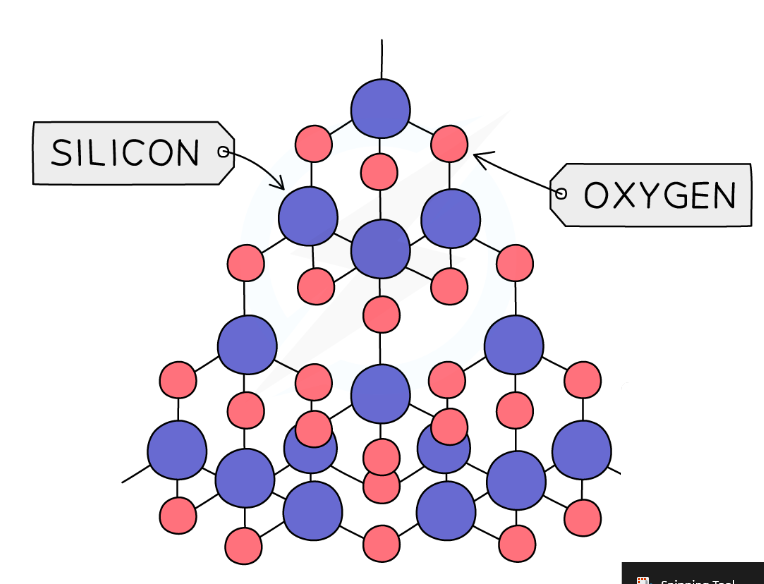
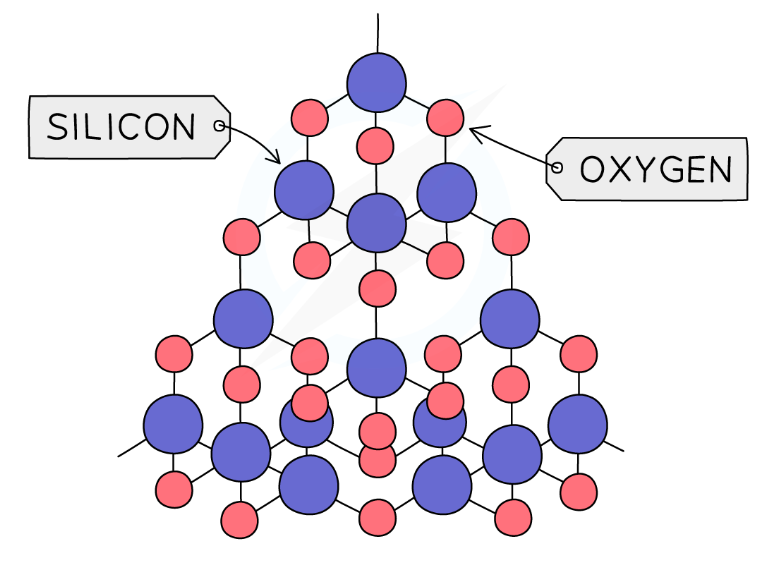
Remove alloys section; update SiO2 image

Changed region(s): [[0.0302, 0.0604, 0.9974, 0.9663], [0.816, 0.9361, 1.0, 1.0]]

diff --git a/revision-notes/types-of-substances.html b/revision-notes/types-of-substances.html
@@ -197,99 +197,9 @@
 
 
 <!-- ═══════════════════════════════════════════
-     2. ALLOYS
+     2. GIANT COVALENT STRUCTURES
      ═══════════════════════════════════════════ -->
-<h2>2. Alloys</h2>
-
-<div class="two-col">
-  <div class="fact-box">
-    <h3>What is an alloy?</h3>
-    <ul>
-      <li>A <strong>mixture</strong> of a metal with one or more other elements (usually other metals or carbon)</li>
-      <li>The added atoms have a <strong>different size</strong> to the host metal atoms</li>
-      <li>This <strong>distorts the regular arrangement</strong> of ions in the lattice</li>
-      <li>The layers can no longer slide over each other as easily</li>
-      <li>Therefore alloys are <strong>harder</strong> than the pure metals they are made from</li>
-    </ul>
-  </div>
-  <div class="fact-box">
-    <h3>Common alloys — exam examples</h3>
-    <table style="font-size:9.5pt;margin-top:4px;">
-      <thead><tr><th>Alloy</th><th>Main metal(s)</th><th>Use</th></tr></thead>
-      <tbody>
-        <tr><td><strong>Steel</strong></td><td>Iron + carbon</td><td>Construction, cars</td></tr>
-        <tr><td><strong>Stainless steel</strong></td><td>Iron + carbon + chromium</td><td>Cutlery, surgical tools</td></tr>
-        <tr><td><strong>Bronze</strong></td><td>Copper + tin</td><td>Statues, bearings</td></tr>
-        <tr><td><strong>Brass</strong></td><td>Copper + zinc</td><td>Musical instruments</td></tr>
-        <tr><td><strong>Duralumin</strong></td><td>Aluminium + copper</td><td>Aircraft frames</td></tr>
-      </tbody>
-    </table>
-  </div>
-</div>
-
-<!-- Pure metal vs alloy comparison SVG -->
-<div class="diag-centre">
-  <svg width="440" height="185" viewBox="0 0 440 185" xmlns="http://www.w3.org/2000/svg" style="border:1px solid #c5d3e8;border-radius:5px;background:#eef2fa;">
-    <!-- Panel labels -->
-    <text x="105" y="14" text-anchor="middle" font-size="10" font-family="Arial" font-weight="bold" fill="#1a3c6b">Pure Metal</text>
-    <text x="335" y="14" text-anchor="middle" font-size="10" font-family="Arial" font-weight="bold" fill="#1a3c6b">Alloy</text>
-    <!-- Divider -->
-    <line x1="220" y1="0" x2="220" y2="185" stroke="#c5d3e8" stroke-width="1" stroke-dasharray="4,3"/>
-
-    <!-- PURE METAL: 4×4 regular grid, all same size (r=16), centred at x=105 -->
-    <!-- Col x: 25, 65, 105, 145 | Row y: 32, 72, 112, 152 -->
-    <circle cx="25"  cy="32"  r="16" fill="#2563eb" stroke="#fff" stroke-width="1.5"/>
-    <circle cx="65"  cy="32"  r="16" fill="#2563eb" stroke="#fff" stroke-width="1.5"/>
-    <circle cx="105" cy="32"  r="16" fill="#2563eb" stroke="#fff" stroke-width="1.5"/>
-    <circle cx="145" cy="32"  r="16" fill="#2563eb" stroke="#fff" stroke-width="1.5"/>
-    <circle cx="25"  cy="72"  r="16" fill="#2563eb" stroke="#fff" stroke-width="1.5"/>
-    <circle cx="65"  cy="72"  r="16" fill="#2563eb" stroke="#fff" stroke-width="1.5"/>
-    <circle cx="105" cy="72"  r="16" fill="#2563eb" stroke="#fff" stroke-width="1.5"/>
-    <circle cx="145" cy="72"  r="16" fill="#2563eb" stroke="#fff" stroke-width="1.5"/>
-    <circle cx="25"  cy="112" r="16" fill="#2563eb" stroke="#fff" stroke-width="1.5"/>
-    <circle cx="65"  cy="112" r="16" fill="#2563eb" stroke="#fff" stroke-width="1.5"/>
-    <circle cx="105" cy="112" r="16" fill="#2563eb" stroke="#fff" stroke-width="1.5"/>
-    <circle cx="145" cy="112" r="16" fill="#2563eb" stroke="#fff" stroke-width="1.5"/>
-    <circle cx="25"  cy="152" r="16" fill="#2563eb" stroke="#fff" stroke-width="1.5"/>
-    <circle cx="65"  cy="152" r="16" fill="#2563eb" stroke="#fff" stroke-width="1.5"/>
-    <circle cx="105" cy="152" r="16" fill="#2563eb" stroke="#fff" stroke-width="1.5"/>
-    <circle cx="145" cy="152" r="16" fill="#2563eb" stroke="#fff" stroke-width="1.5"/>
-    <!-- Layer-slide arrow for pure metal -->
-    <text x="105" y="177" text-anchor="middle" font-size="8.5" font-family="Arial" fill="#2e7d32" font-style="italic">layers slide easily &#8594;</text>
-
-    <!-- ALLOY: same grid (offset +230) but 3 atoms are smaller (different element) -->
-    <!-- Col x: 255, 295, 335, 375 | Row y: 32, 72, 112, 152 -->
-    <circle cx="255" cy="32"  r="16" fill="#2563eb" stroke="#fff" stroke-width="1.5"/>
-    <circle cx="295" cy="32"  r="16" fill="#2563eb" stroke="#fff" stroke-width="1.5"/>
-    <circle cx="335" cy="32"  r="10" fill="#dc2626" stroke="#fff" stroke-width="1.5"/>
-    <circle cx="375" cy="32"  r="16" fill="#2563eb" stroke="#fff" stroke-width="1.5"/>
-    <circle cx="255" cy="72"  r="16" fill="#2563eb" stroke="#fff" stroke-width="1.5"/>
-    <circle cx="295" cy="72"  r="16" fill="#2563eb" stroke="#fff" stroke-width="1.5"/>
-    <circle cx="335" cy="72"  r="16" fill="#2563eb" stroke="#fff" stroke-width="1.5"/>
-    <circle cx="375" cy="72"  r="10" fill="#dc2626" stroke="#fff" stroke-width="1.5"/>
-    <circle cx="255" cy="112" r="16" fill="#2563eb" stroke="#fff" stroke-width="1.5"/>
-    <circle cx="295" cy="112" r="10" fill="#dc2626" stroke="#fff" stroke-width="1.5"/>
-    <circle cx="335" cy="112" r="16" fill="#2563eb" stroke="#fff" stroke-width="1.5"/>
-    <circle cx="375" cy="112" r="16" fill="#2563eb" stroke="#fff" stroke-width="1.5"/>
-    <circle cx="255" cy="152" r="16" fill="#2563eb" stroke="#fff" stroke-width="1.5"/>
-    <circle cx="295" cy="152" r="16" fill="#2563eb" stroke="#fff" stroke-width="1.5"/>
-    <circle cx="335" cy="152" r="16" fill="#2563eb" stroke="#fff" stroke-width="1.5"/>
-    <circle cx="375" cy="152" r="10" fill="#dc2626" stroke="#fff" stroke-width="1.5"/>
-    <!-- No-slide text -->
-    <text x="315" y="177" text-anchor="middle" font-size="8.5" font-family="Arial" fill="#b71c1c" font-style="italic">layers cannot slide &#10006;</text>
-  </svg>
-  <div class="d-label">Blue = host metal ions &nbsp;|&nbsp; Red (smaller) = different-sized atoms in alloy, distorting the regular lattice</div>
-</div>
-
-<div class="tip">
-  <strong>Exam shortcut:</strong> Every alloy hardness question wants the same three steps: (1) different-sized atoms, (2) distort the regular lattice, (3) layers cannot slide easily &rarr; harder. Learn this sequence.
-</div>
-
-
-<!-- ═══════════════════════════════════════════
-     3. GIANT COVALENT STRUCTURES
-     ═══════════════════════════════════════════ -->
-<h2>3. Giant Covalent Structures</h2>
+<h2>2. Giant Covalent Structures</h2>
 
 <div class="two-col">
   <div class="fact-box">
@@ -328,7 +238,7 @@
 <!-- ═══════════════════════════════════════════
      4. IONIC STRUCTURES
      ═══════════════════════════════════════════ -->
-<h2>4. Ionic Structures</h2>
+<h2>3. Ionic Structures</h2>
 
 <div class="two-col">
   <div class="fact-box">
@@ -363,7 +273,7 @@
 <!-- ═══════════════════════════════════════════
      5. ADDITION POLYMERISATION
      ═══════════════════════════════════════════ -->
-<h2>5. Addition Polymerisation</h2>
+<h2>4. Addition Polymerisation</h2>
 
 <div class="two-col">
   <div class="fact-box">
@@ -436,7 +346,7 @@
 <!-- ═══════════════════════════════════════════
      4. REPRESENTING STRUCTURES
      ═══════════════════════════════════════════ -->
-<h2>6. Representing Structures</h2>
+<h2>5. Representing Structures</h2>
 
 <p style="font-size:9.5pt;margin-bottom:7px;">Five ways to represent a molecule, each showing different information. The exam (Q9 style) asks you to describe what <strong>each one shows</strong> AND its <strong>limitation</strong>. Learn all five for methane (CH&#8324;).</p>
 
@@ -515,7 +425,7 @@
 <!-- ═══════════════════════════════════════════
      5. EXAM QUESTIONS WITH MODEL ANSWERS
      ═══════════════════════════════════════════ -->
-<h2>7. Exam Questions with Model Answers</h2>
+<h2>6. Exam Questions with Model Answers</h2>
 
 <!-- Q1: metallic bonding + high melting point (mirrors Q10 of the test) -->
 <div class="qa-block">
@@ -534,23 +444,7 @@
   </div>
 </div>
 
-<!-- Q2: alloy hardness -->
-<div class="qa-block">
-  <div class="question">
-    Pure iron is too soft for many uses. Explain, in terms of structure, why steel (an alloy of iron and carbon) is harder than pure iron.
-    <span class="marks">[3 marks]</span>
-  </div>
-  <div class="answer">
-    <div class="a-label">Model Answer</div>
-    <ul class="tick-list">
-      <li>The carbon atoms are a <strong>different size</strong> to the iron atoms (1)</li>
-      <li>The carbon atoms <strong>distort the regular arrangement</strong> of ions in the lattice (1)</li>
-      <li>This prevents the layers of ions from <strong>sliding over each other</strong> as easily &rarr; harder (1)</li>
-    </ul>
-  </div>
-</div>
-
-<!-- Q3: polymer repeat unit -->
+<!-- Q2: polymer repeat unit -->
 <div class="qa-block">
   <div class="question">
     Propene has the structural formula CH&#8322;=CHCH&#8323;. Name the polymer formed from propene monomers and draw the structural repeat unit.
@@ -566,7 +460,7 @@
   </div>
 </div>
 
-<!-- Q4: 6-mark representations (mirrors Q9 of the test) -->
+<!-- Q3: 6-mark representations (mirrors Q9 of the test) -->
 <div class="qa-block">
   <div class="question">
     The diagram shows five different representations of methane, CH&#8324;, labelled A&ndash;E: A = molecular formula, B = dot-and-cross diagram, C = displayed formula, D = ball-and-stick model, E = space-filling model. Describe what information can be obtained from each representation, including the limitations of each.
